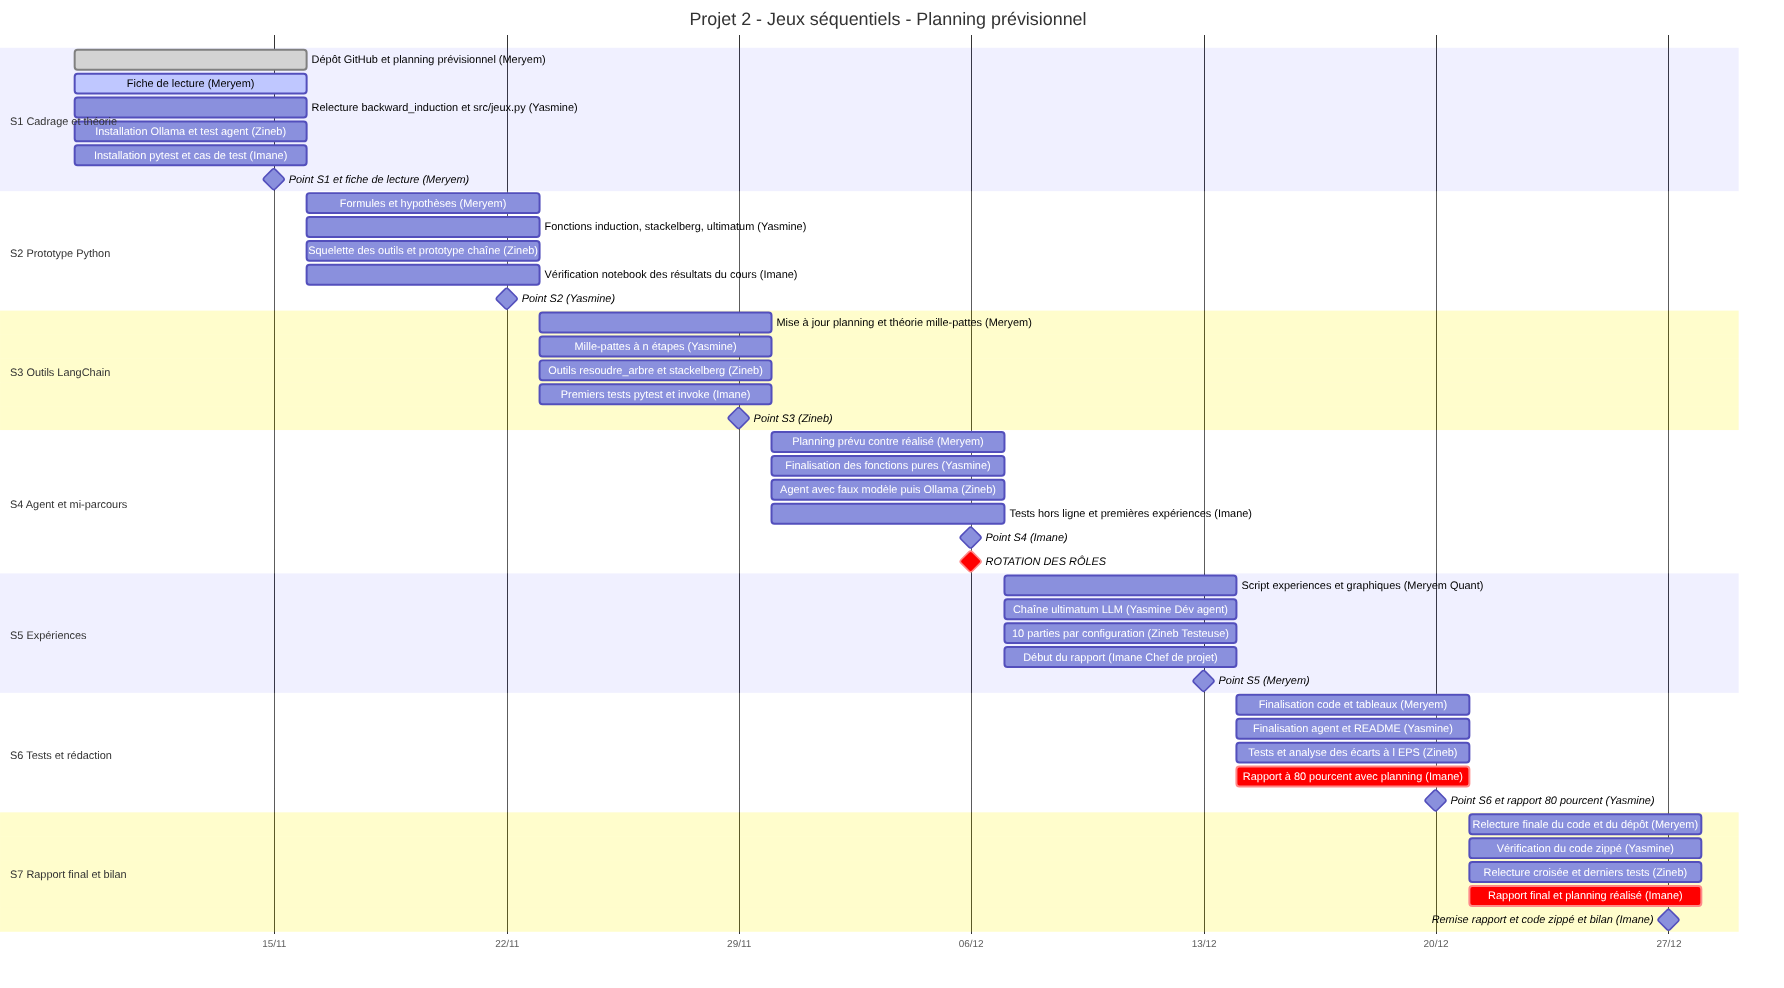
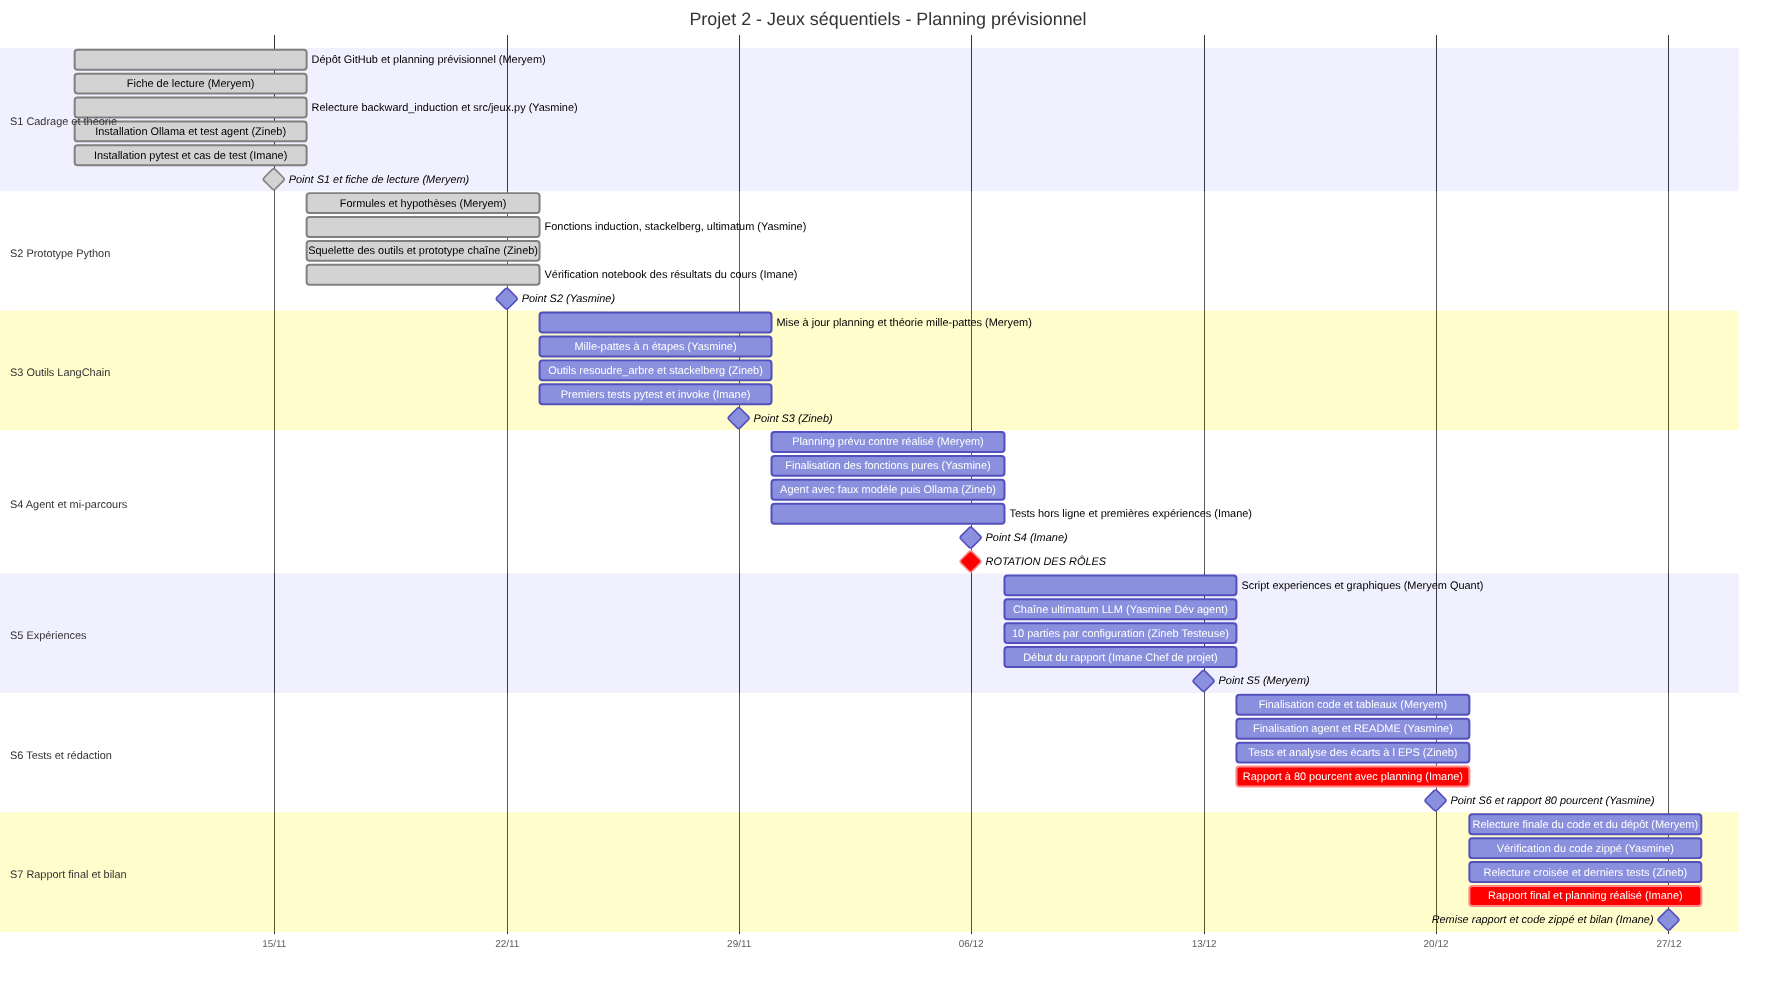
[Meryem] S2 - Mise à jour du Gantt (statuts)

Changed region(s): [[0.0308, 0.0607, 0.3083, 0.3036]]

diff --git a/docs/gantt_previsionnel.md b/docs/gantt_previsionnel.md
@@ -1,6 +1,6 @@
 # Gantt prévisionnel – Projet 2 : Jeux séquentiels (Groupe 2)
 
-Version : prévisionnelle (déposée en S1). La version « réalisée » sera ajoutée en S4 puis en S7, avec l'explication des écarts.
+Version : prévisionnelle (déposée en S1), statuts mis à jour en S2 (19/11/2026). Légende des barres : gris = fait, bleu clair = en cours, bleu = à faire, rouge = jalon critique. La version « réalisée » sera ajoutée en S4 puis en S7, avec l'explication des écarts.
 
 ```mermaid
 gantt
@@ -11,17 +11,17 @@ gantt
 
     section S1 Cadrage et théorie
     Dépôt GitHub et planning prévisionnel (Meryem)     :done, s1a, 2026-11-09, 7d
-    Fiche de lecture (Meryem)                          :active, s1b, 2026-11-09, 7d
-    Relecture backward_induction et src/jeux.py (Yasmine) :s1c, 2026-11-09, 7d
-    Installation Ollama et test agent (Zineb)          :s1d, 2026-11-09, 7d
-    Installation pytest et cas de test (Imane)         :s1e, 2026-11-09, 7d
-    Point S1 et fiche de lecture (Meryem)              :milestone, m1, 2026-11-15, 0d
+    Fiche de lecture (Meryem)                          :done, s1b, 2026-11-09, 7d
+    Relecture backward_induction et src/jeux.py (Yasmine) :done, s1c, 2026-11-09, 7d
+    Installation Ollama et test agent (Zineb)          :done, s1d, 2026-11-09, 7d
+    Installation pytest et cas de test (Imane)         :done, s1e, 2026-11-09, 7d
+    Point S1 et fiche de lecture (Meryem)              :done, milestone, m1, 2026-11-15, 0d
 
     section S2 Prototype Python
-    Formules et hypothèses (Meryem)                    :s2a, 2026-11-16, 7d
-    Fonctions induction, stackelberg, ultimatum (Yasmine) :s2b, 2026-11-16, 7d
-    Squelette des outils et prototype chaîne (Zineb)   :s2c, 2026-11-16, 7d
-    Vérification notebook des résultats du cours (Imane) :s2d, 2026-11-16, 7d
+    Formules et hypothèses (Meryem)                    :done, s2a, 2026-11-16, 7d
+    Fonctions induction, stackelberg, ultimatum (Yasmine) :done, s2b, 2026-11-16, 7d
+    Squelette des outils et prototype chaîne (Zineb)   :done, s2c, 2026-11-16, 7d
+    Vérification notebook des résultats du cours (Imane) :done, s2d, 2026-11-16, 7d
     Point S2 (Yasmine)                                 :milestone, m2, 2026-11-22, 0d
 
     section S3 Outils LangChain
@@ -63,6 +63,40 @@ gantt
 
 Source éditable : `docs/gantt_source.mmd` · Image : `docs/gantt_previsionnel.png`
 
+## Tâches (responsable, début, fin, durée, statut)
+
+| Sem. | Tâche | Responsable | Début | Fin | Durée | Statut |
+|---|---|---|---|---|---|---|
+| S1 | Dépôt GitHub et planning prévisionnel | Meryem | 09/11 | 15/11 | 7 j | fait |
+| S1 | Fiche de lecture | Meryem | 09/11 | 15/11 | 7 j | fait |
+| S1 | Relecture backward_induction et src/jeux.py | Yasmine | 09/11 | 15/11 | 7 j | fait |
+| S1 | Installation Ollama et test agent | Zineb | 09/11 | 15/11 | 7 j | fait |
+| S1 | Installation pytest et cas de test | Imane | 09/11 | 15/11 | 7 j | fait |
+| S2 | Formules et hypothèses | Meryem | 16/11 | 22/11 | 7 j | fait |
+| S2 | Fonctions induction, stackelberg, ultimatum | Yasmine | 16/11 | 22/11 | 7 j | fait |
+| S2 | Squelette des outils et prototype chaîne | Zineb | 16/11 | 22/11 | 7 j | fait |
+| S2 | Vérification notebook des résultats du cours | Imane | 16/11 | 22/11 | 7 j | fait |
+| S3 | Mise à jour planning et théorie mille-pattes | Meryem | 23/11 | 29/11 | 7 j | à faire |
+| S3 | Mille-pattes à n étapes | Yasmine | 23/11 | 29/11 | 7 j | à faire |
+| S3 | Outils resoudre_arbre et stackelberg | Zineb | 23/11 | 29/11 | 7 j | à faire |
+| S3 | Premiers tests pytest et invoke | Imane | 23/11 | 29/11 | 7 j | à faire |
+| S4 | Planning prévu contre réalisé | Meryem | 30/11 | 06/12 | 7 j | à faire |
+| S4 | Finalisation des fonctions pures | Yasmine | 30/11 | 06/12 | 7 j | à faire |
+| S4 | Agent avec faux modèle puis Ollama | Zineb | 30/11 | 06/12 | 7 j | à faire |
+| S4 | Tests hors ligne et premières expériences | Imane | 30/11 | 06/12 | 7 j | à faire |
+| S5 | Script experiences et graphiques | Meryem Quant | 07/12 | 13/12 | 7 j | à faire |
+| S5 | Chaîne ultimatum LLM | Yasmine Dév agent | 07/12 | 13/12 | 7 j | à faire |
+| S5 | 10 parties par configuration | Zineb Testeuse | 07/12 | 13/12 | 7 j | à faire |
+| S5 | Début du rapport | Imane Chef de projet | 07/12 | 13/12 | 7 j | à faire |
+| S6 | Finalisation code et tableaux | Meryem | 14/12 | 20/12 | 7 j | à faire |
+| S6 | Finalisation agent et README | Yasmine | 14/12 | 20/12 | 7 j | à faire |
+| S6 | Tests et analyse des écarts à l EPS | Zineb | 14/12 | 20/12 | 7 j | à faire |
+| S6 | Rapport à 80 pourcent avec planning | Imane | 14/12 | 20/12 | 7 j | à faire |
+| S7 | Relecture finale du code et du dépôt | Meryem | 21/12 | 27/12 | 7 j | à faire |
+| S7 | Vérification du code zippé | Yasmine | 21/12 | 27/12 | 7 j | à faire |
+| S7 | Relecture croisée et derniers tests | Zineb | 21/12 | 27/12 | 7 j | à faire |
+| S7 | Rapport final et planning réalisé | Imane | 21/12 | 27/12 | 7 j | à faire |
+
 ## Rôles et rotation
 
 | Personne | S1 à S4 | S5 à S7 (après rotation) |
@@ -78,8 +112,8 @@ Source éditable : `docs/gantt_source.mmd` · Image : `docs/gantt_previsionnel.p
 |---|---|---|---|---|
 | Dépôt GitHub + Gantt prévisionnel | S1 | 15/11 | Meryem | fait |
 | Fiche de lecture | S1 | 15/11 | Meryem | fait |
-| Point d'avancement S1 | S1 | 15/11 | Meryem | en cours |
-| Point d'avancement S2 | S2 | 22/11 | Yasmine | à faire |
+| Point d'avancement S1 | S1 | 15/11 | Meryem | fait |
+| Point d'avancement S2 | S2 | 22/11 | Yasmine | en cours |
 | Point d'avancement S3 | S3 | 29/11 | Zineb | à faire |
 | Point d'avancement S4 + rotation des rôles | S4 | 06/12 | Imane | à faire |
 | Point d'avancement S5 | S5 | 13/12 | Meryem | à faire |
